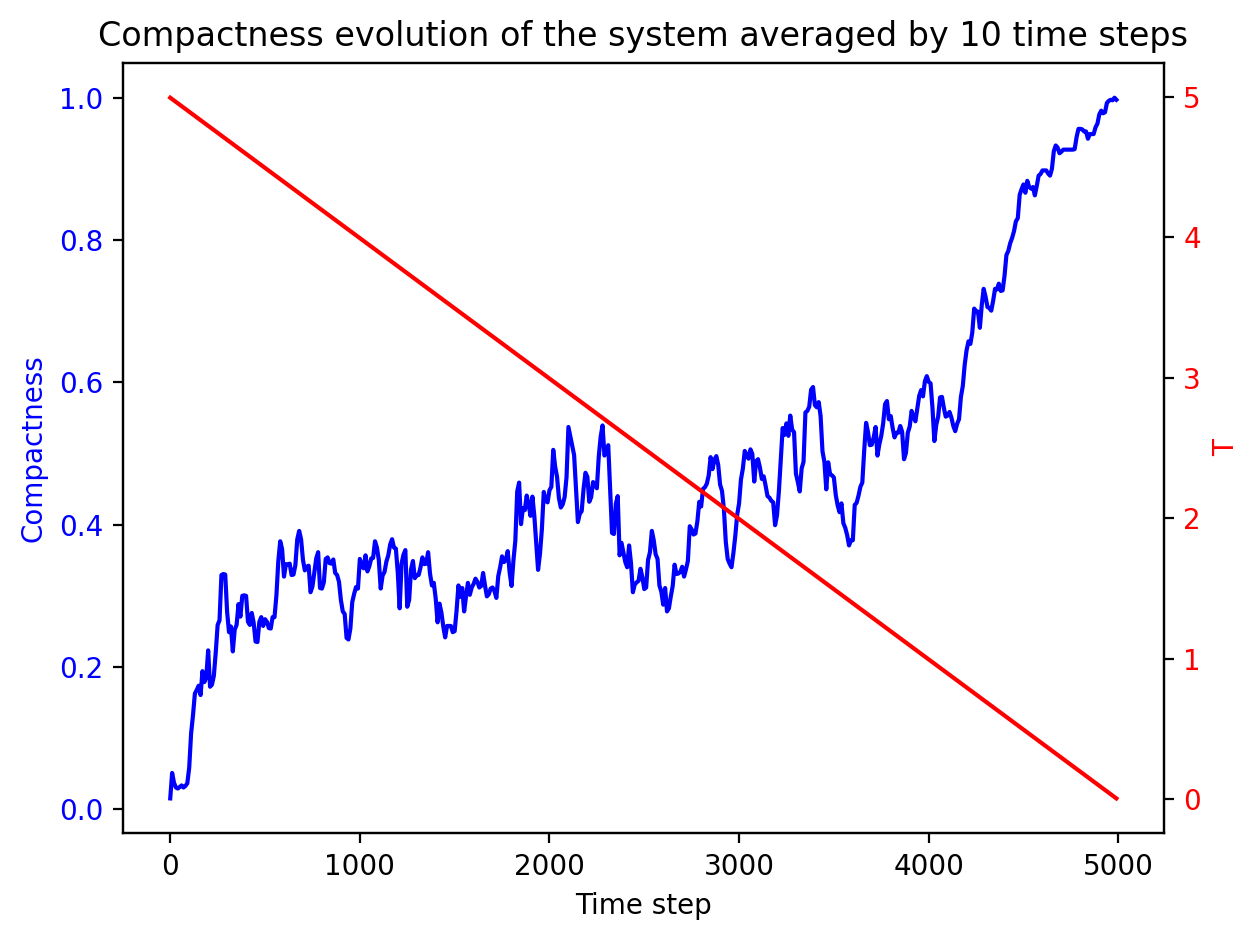
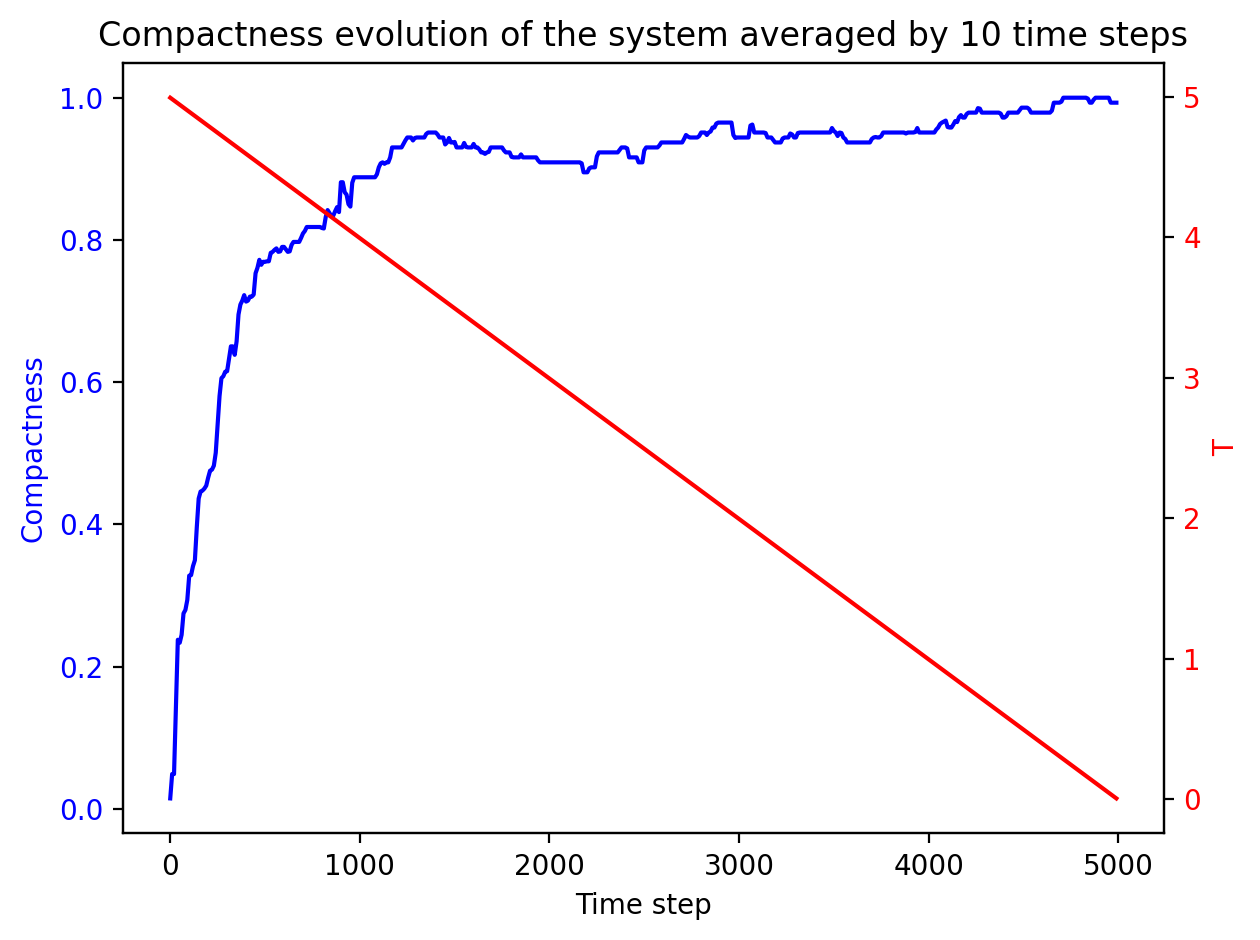
Add explicit Boltzmann constant to Metropolis algorithm

diff --git a/src/protein_class.py b/src/protein_class.py
@@ -8,6 +8,7 @@ from typing import List
 import math
 import utils
 import copy
+from scipy.constants import Boltzmann
 
 class Protein:
     """
@@ -122,7 +123,7 @@ class Protein:
     def _accept_higher_energy(self, current: float, new: float, temperature: float) -> bool:
         """Return True if the new structure is accepted by the Metropolis criterion."""
         delta_e = new - current
-        prob = math.exp(-delta_e / temperature)
+        prob = math.exp(-delta_e / (Boltzmann * temperature))
         return prob >= random.uniform(0, 1)
 
     def energy(self, e: float = 1.0) -> float:
